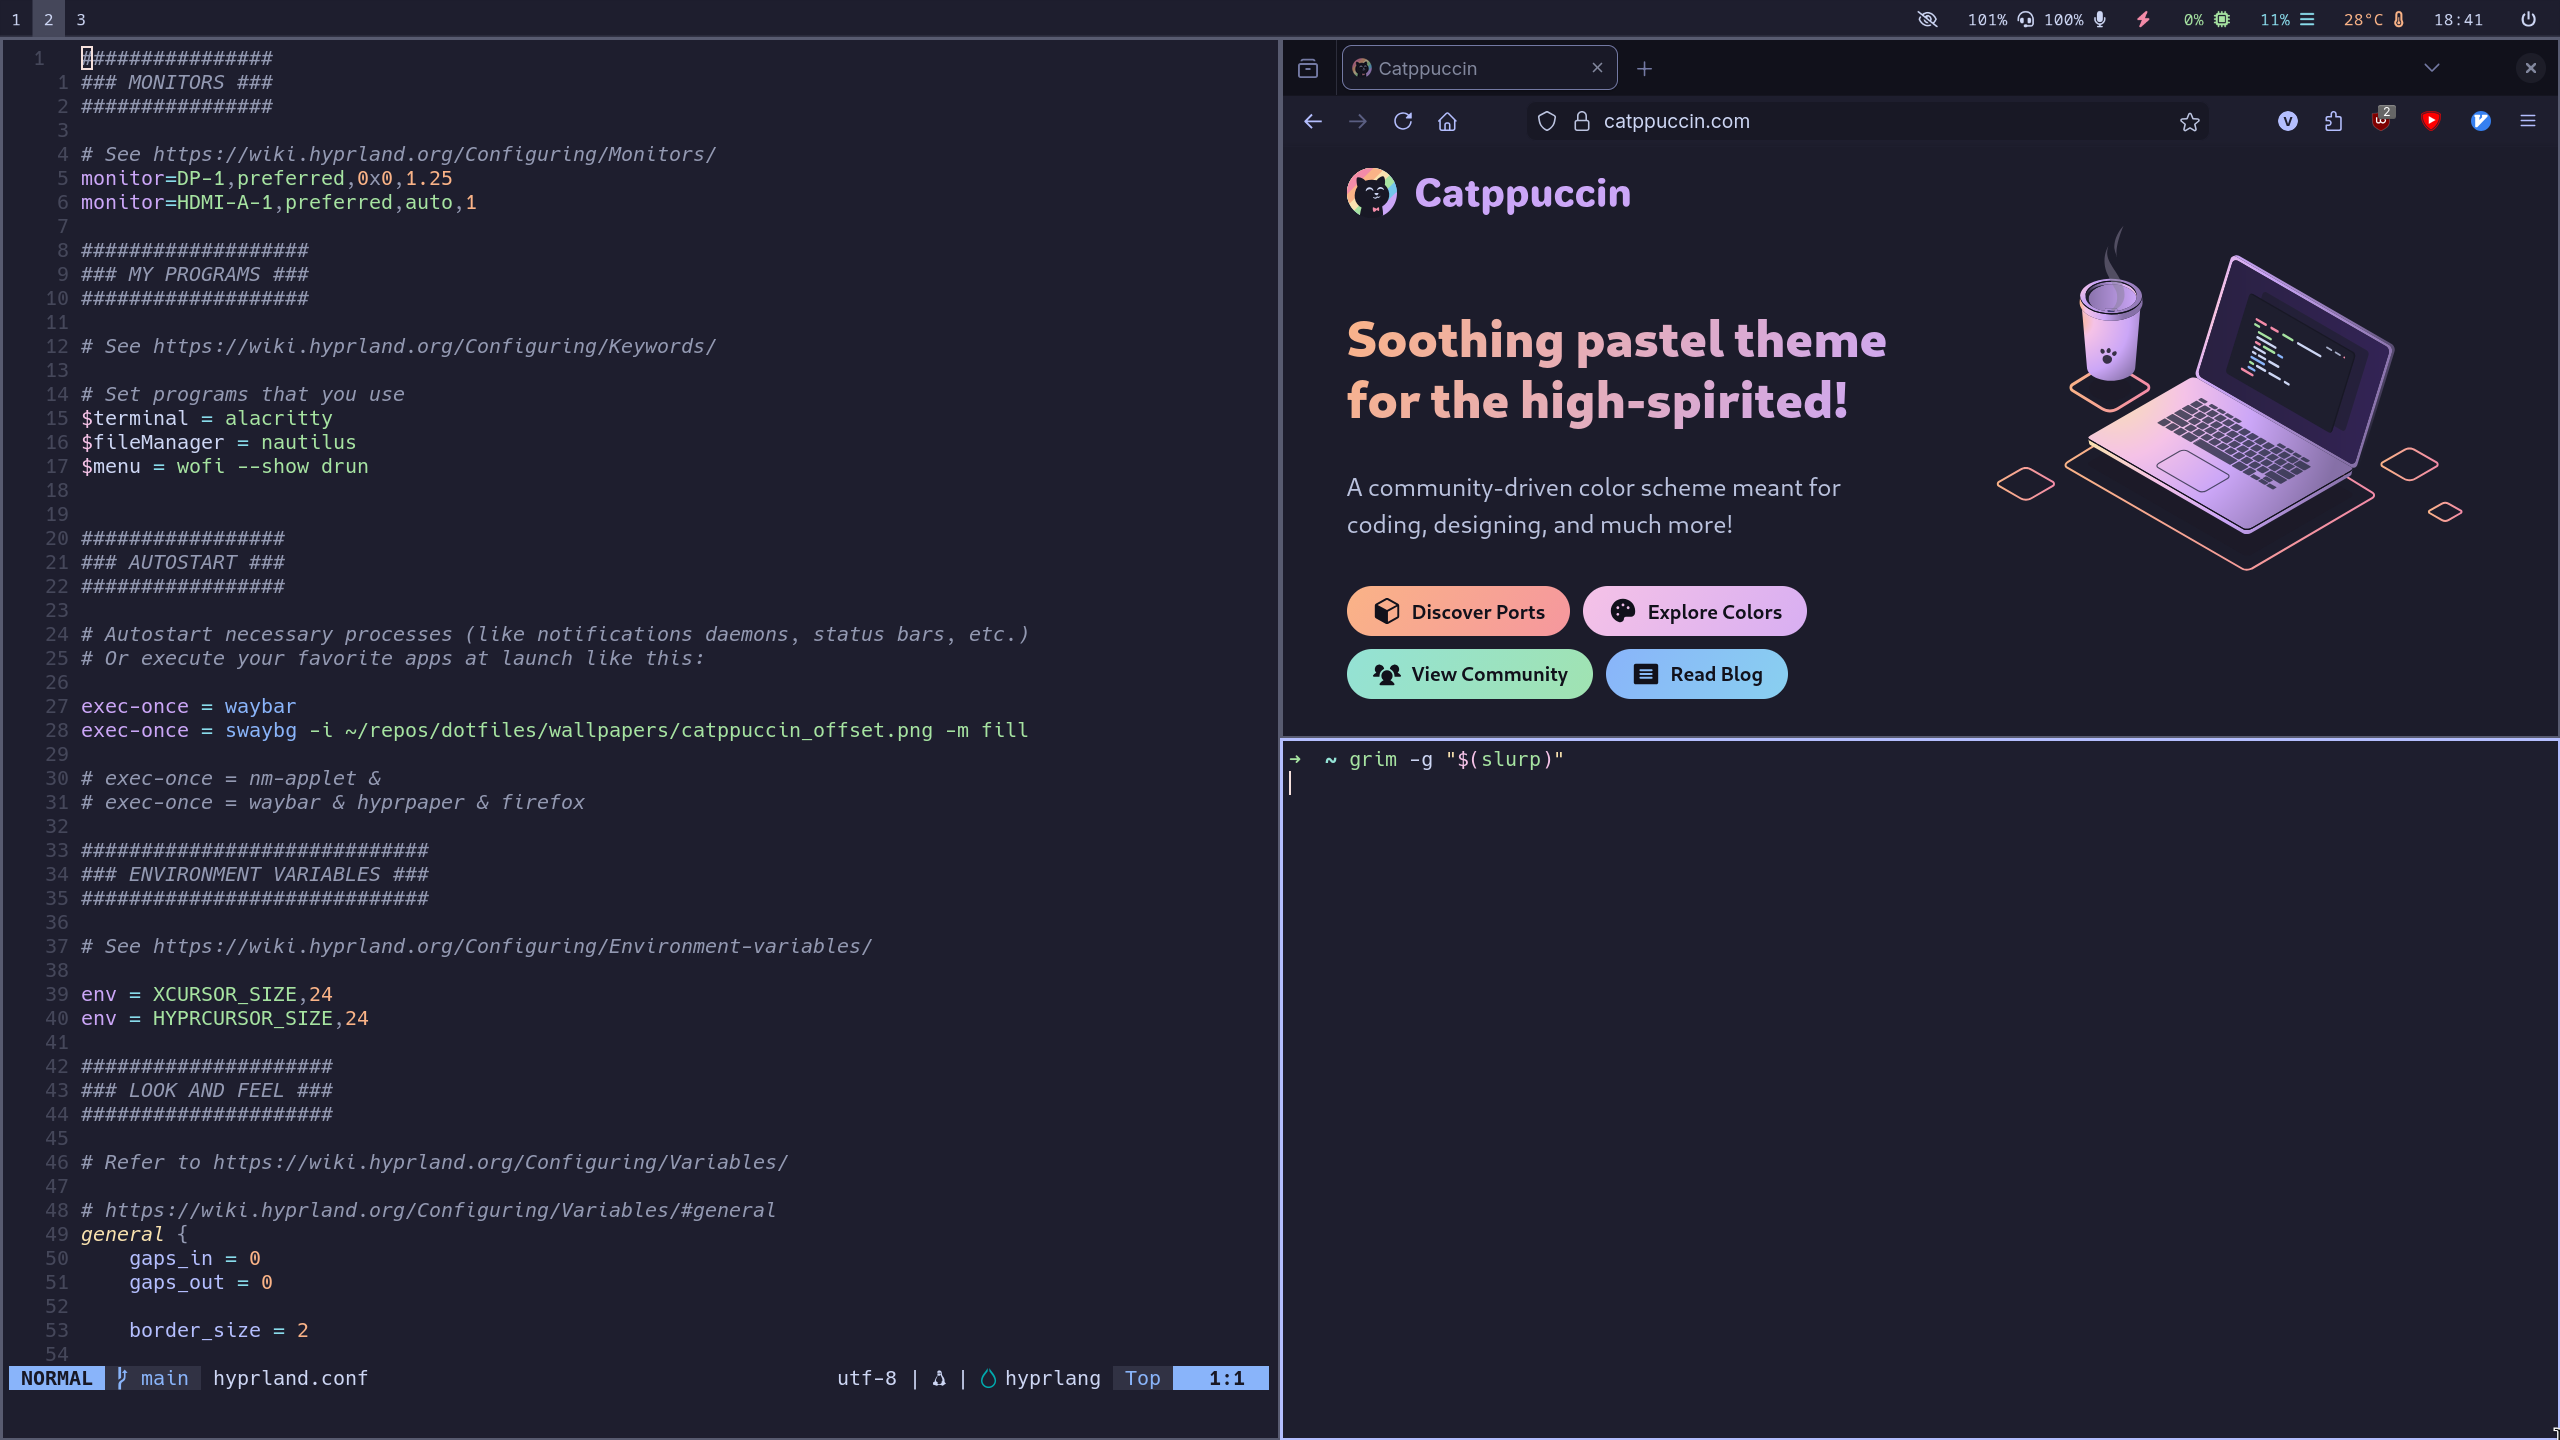
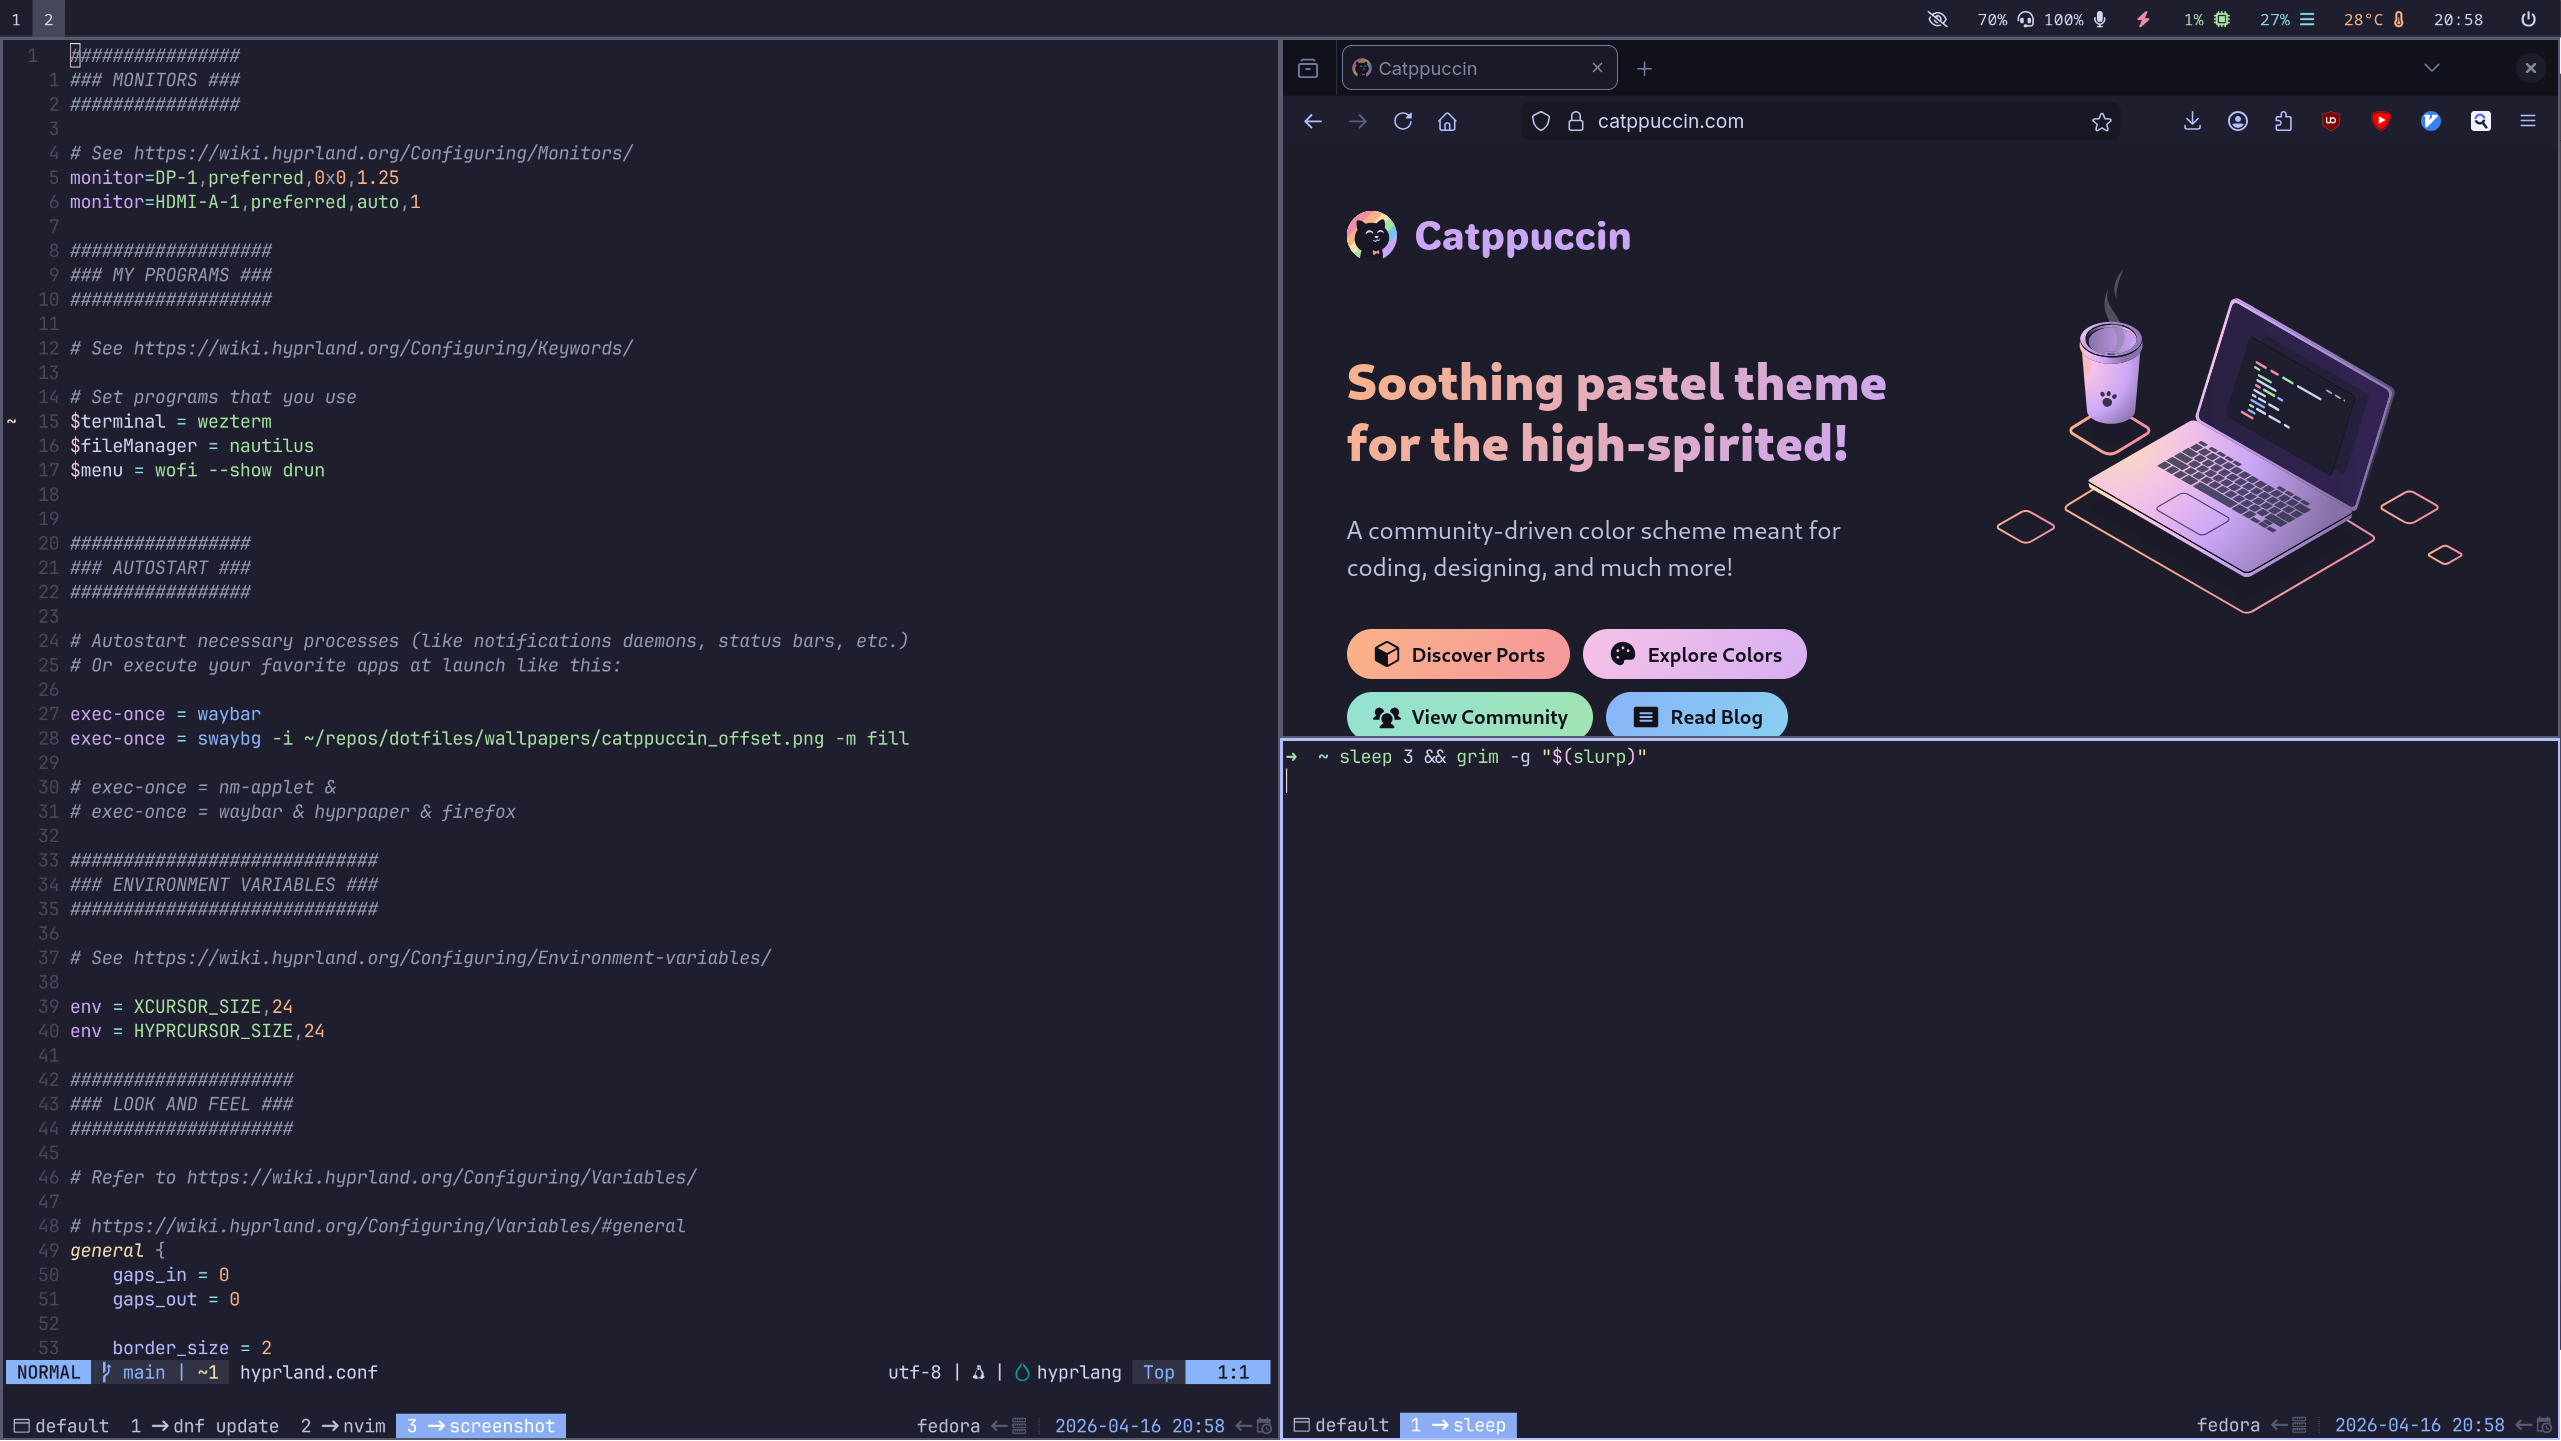
Switched to WezTerm

diff --git a/README.md b/README.md
@@ -1,6 +1,7 @@
 # Dotfiles
 
 ![Workspace with apps](screenshots/screenshot-apps.png)
+![WezTerm with tabs and panes](screenshots/screenshot-apps.png)
 ![Empty workspace](screenshots/screenshot-empty.png)
 
 Minimal Hyprland and Neovim setup focused on keyboard-driven workflows and low visual noise.
@@ -37,15 +38,21 @@ This script modifies files in your home directory. Review it before running.
 
 Non-exhaustive list of configured applications:
 
-* GDB
-* Zsh
-* ClangFormat
-* Alacritty
-* Hyprland
+### Core stack
 * Neovim
+* Hyprland
+* WezTerm
+* Zsh
 * Waybar
 * Wofi
+
+### Tools
+* GDB
+* ClangFormat
 * Vial
+
+### Legacy
+* Alacritty (replaced by WezTerm, no longer maintained)
 
 ## Vial disclaimer
 
